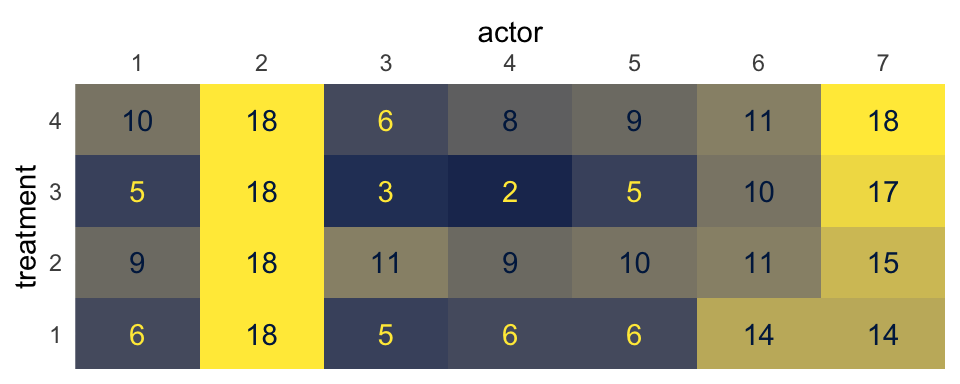
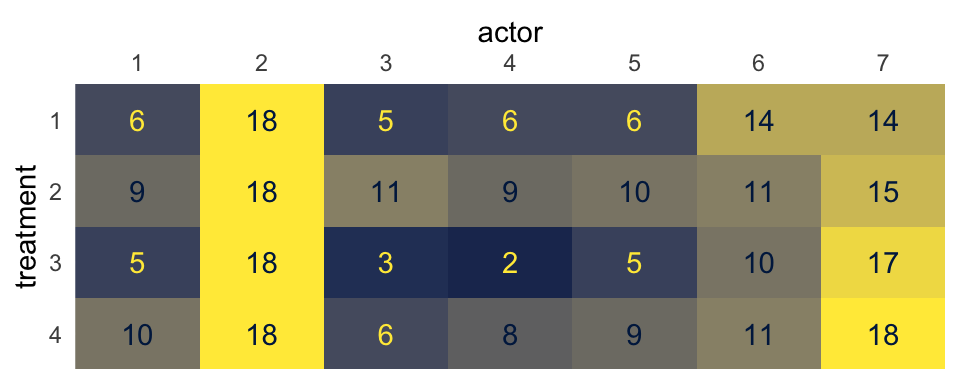
minor code/prose edits

diff --git a/content/post/2020-12-09-multilevel-models-and-the-index-variable-approach/index.en.html b/content/post/2020-12-09-multilevel-models-and-the-index-variable-approach/index.en.html
@@ -284,10 +284,11 @@ fitted(fit1,
 </div>
 <div id="kruschkes-approach." class="section level3">
 <h3>Kruschke’s approach.</h3>
-<p>One way to think about our <code>pulled_left</code> data is they are grouped by two factors. The first factor is the experimental condition, <code>treatment</code>. The second factor is participant, <code>actor</code>. Now imagine you arrange the number of times <code>pulled_left == 1</code> based in a <span class="math inline">\(2 \times 2\)</span> contingency table where the four levels of <code>treatment</code> factor are in the rows and the seven levels of <code>actor</code> are in the columns. Here’s what that might look like in a plot.</p>
+<p>One way to think about our <code>pulled_left</code> data is they are grouped by two factors. The first factor is the experimental condition, <code>treatment</code>. The second factor is participant, <code>actor</code>. Now imagine you arrange the number of times <code>pulled_left == 1</code> within the cells of a <span class="math inline">\(2 \times 2\)</span> contingency table where the four levels of the <code>treatment</code> factor are in the rows and the seven levels of <code>actor</code> are in the columns. Here’s what that might look like in a tile plot.</p>
 <pre class="r"><code>d %&gt;% 
   group_by(actor, treatment) %&gt;% 
   summarise(count = sum(pulled_left)) %&gt;% 
+  mutate(treatment = factor(treatment, levels = 4:1)) %&gt;% 
   
   ggplot(aes(x = actor, y = treatment, fill = count, label = count)) +
   geom_tile() +
@@ -365,7 +366,7 @@ posterior_samples(fit2) %&gt;%
   ggplot(aes(x = value, y = name)) +
   stat_halfeye() +
   scale_y_discrete(NULL, labels = ggplot2:::parse_safe) +
-  xlab(NULL) +
+  xlab(&quot;marginal posterior (log-odds scale)&quot;) +
   theme(axis.text.y = element_text(hjust = 0),
         axis.ticks.y = element_blank(),
         panel.grid = element_blank())</code></pre>
